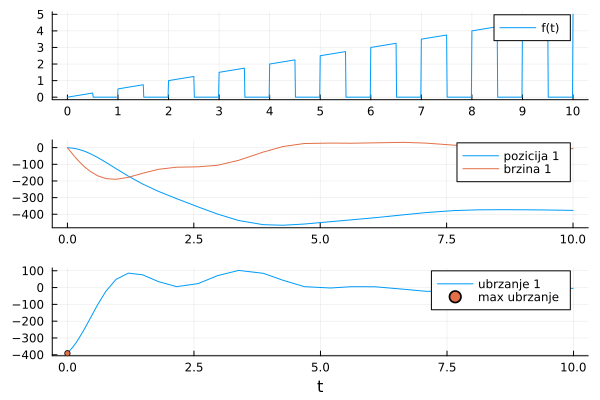
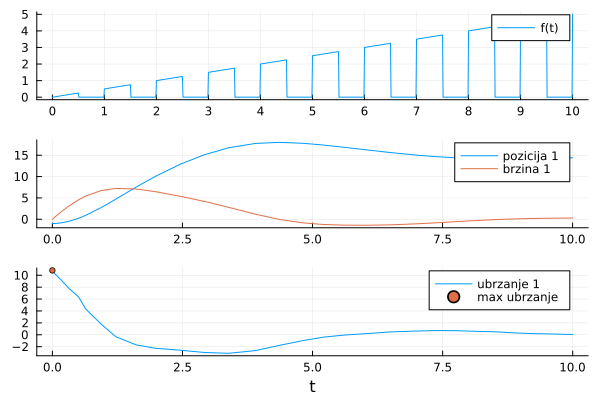
Ispravljene greske u z02 sa 4. vezbi. Dodat z01 iz rotacionih sistema

diff --git a/README.md b/README.md
@@ -14,6 +14,8 @@ Svi tekstovi zadatak i materijali sa vežbi se nalaze na sajtu katedre za *[Auto
 
 ## N-body simulacija
 
+Implementirana jednostavna simulacija sistema sa N čestica. Korišćen Njutnov zakon gravitacije i numerički metod za integraljenje Njutnovih jednačina kretanja u klasičnoj mehanici. Pored toga implementirana i detekcija sudara, gde se dve ili više čestica sabija u jednu.
+
 | 2-body sistem | 3-body sistem |
 | :---: | :---: |
 | ![](n_body/2_body.gif) | ![](n_body/3_body.gif) |
